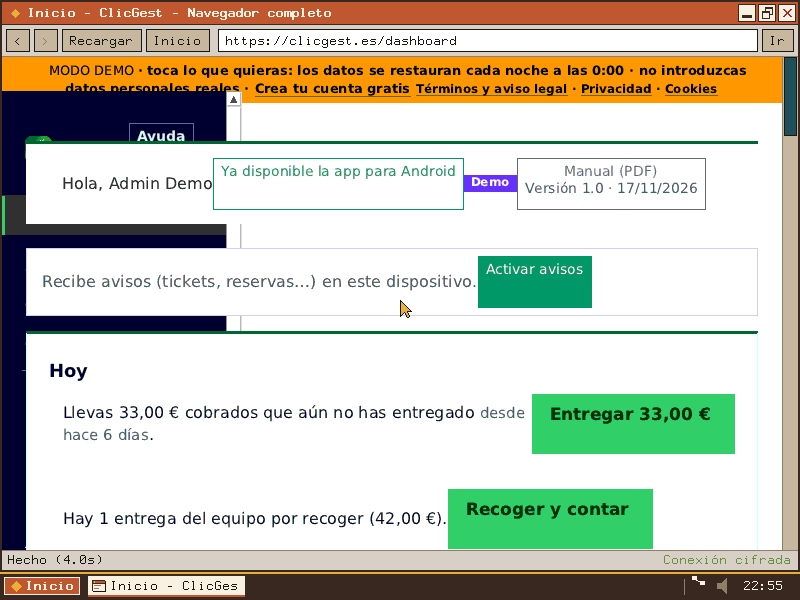
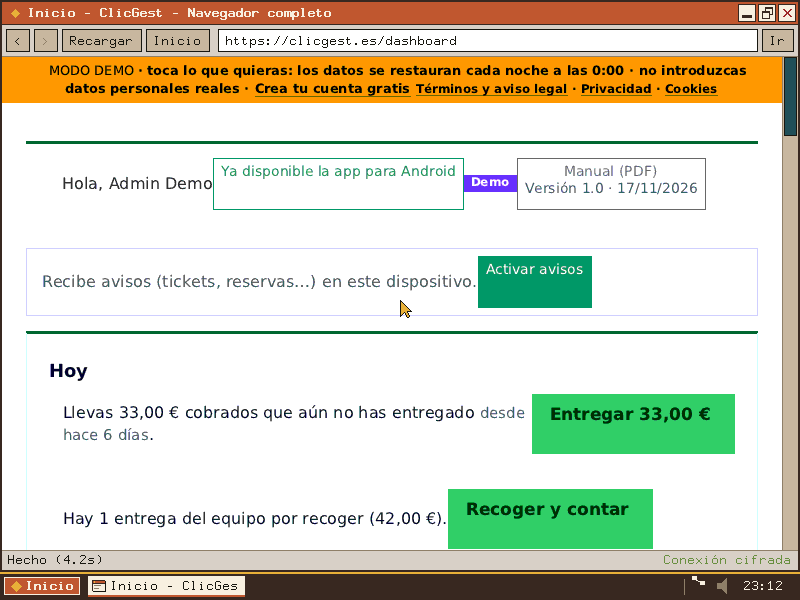
NAVEGADOR2.md: las medidas (tiempos en QEMU, memoria con 32 y con 16 MB) y las capturas de ClicGest sin el menú lateral encima

Changed region(s): [[0.0, 0.15, 0.3125, 0.93]]

diff --git a/docs/486/NAVEGADOR2.md b/docs/486/NAVEGADOR2.md
@@ -219,9 +219,24 @@ User-Agent que ClicGest tomaba por el del Navegador ligero.
 
 En QEMU (sin KVM, en el VPS), 32 MB, 800×600, por la red de QEMU a Internet:
 
-| Página | Tiempo (de pedirla a «Hecho») | Memoria en uso (NetSurf) |
-|---|---|---|
-| (ver tabla de la última medida en el informe de la sesión) | | |
+| Página (por orden, en la misma ventana) | Tiempo (de pedirla a «Hecho») | Memoria en uso (`memoria.c`, KB) | Pedida al sistema (KB) |
+|---|---|---|---|
+| Página HTML+CSS del disco | 0,3-0,7 s | 2.000 | 4.600 |
+| https://clicgest.es/login (Bootstrap 5, primera vez) | 3,7 s | 5.350 (lo más: 7.590) | 7.680 |
+| demo: panel (`/demo` → `/dashboard`) | 4,2 s | 6.660 (8.760) | 9.730 |
+| demo: catálogo de la biblioteca | 5,4 s | 7.490 (9.600) | 9.730 |
+| demo: socios (54 filas en una tabla) | 22,1 s | 10.960 (13.060) | 13.820 |
+| https://hispados.es/ | 4,6 s | 10.850 | 13.820 |
+
+Con el Administrador de tareas (`navegador2/07_memoria.png`): 30.120 KB
+libres antes de abrirlo, 13.392 KB tras esas cuatro páginas de ClicGest: el
+Navegador completo gasta ~16,7 MB con todo (el programa, el montón, la pila,
+el búfer de la página, las letras). Con 16 MB de memoria (14 MB libres en
+Hispa Ventanas) entran las páginas sencillas, hispados.es y ClicGest hasta el
+catálogo (probado en QEMU con `-m 16`: el entrar, el panel y el catálogo van,
+con 3 MB libres tras el panel: `navegador2/09_memoria_16mb.png`); la lista de
+socios (54 filas) **no cabe con 16 MB**: se queda en «Pidiendo» sin avisar.
+Con 24-32 MB va todo. Ver «Lo que falta».
 
 - **Tamaño:** NAVEGA2.EXE 1.096 KB (código 1,06 MB: libcss 330 KB,
   NetSurf 420 KB, libdom+hubbub 200 KB...); con las letras y los recursos,
@@ -257,14 +272,16 @@ En QEMU (sin KVM, en el VPS), 32 MB, 800×600, por la red de QEMU a Internet:
    e **imprimir** (la página en puntos al Lector).
 6. **Grid** y `gap`: en el `layout` de NetSurf (los de NetSurf lo tienen
    pedido; el flexbox de 3.11 es reciente).
-7. **Memoria** para 16 MB justos: soltar las páginas del historial, una
+7. **Memoria** para 16 MB justos: que una página que no cabe dé un aviso
+   (ahora se queda en «Pidiendo»), soltar las páginas del historial, una
    caché de letras más pequeña, Bootstrap sin las reglas añadidas que no se
-   usan.
+   usan, el búfer de la página en 8 bits.
 8. **Tramado** de colores al pasar a la paleta (los fondos pastel).
 
 ## Pruebas
 
-`tests/run_navegador2_tests.sh` (sin Internet: `tests/tools/surf_servidor.py`
+`tests/run_navegador2_tests.sh` (en `make test`; 25 comprobaciones, unos 6
+minutos; sin Internet: `tests/tools/surf_servidor.py`
 por HTTPS con la raíz de pruebas de `tests/tools/nav_certs.sh`): el acceso
 del menú Inicio, una página moderna (hoja de fuera con variables de CSS,
 botones con variables por clase, degradado, flexbox, PNG y JPEG; el
